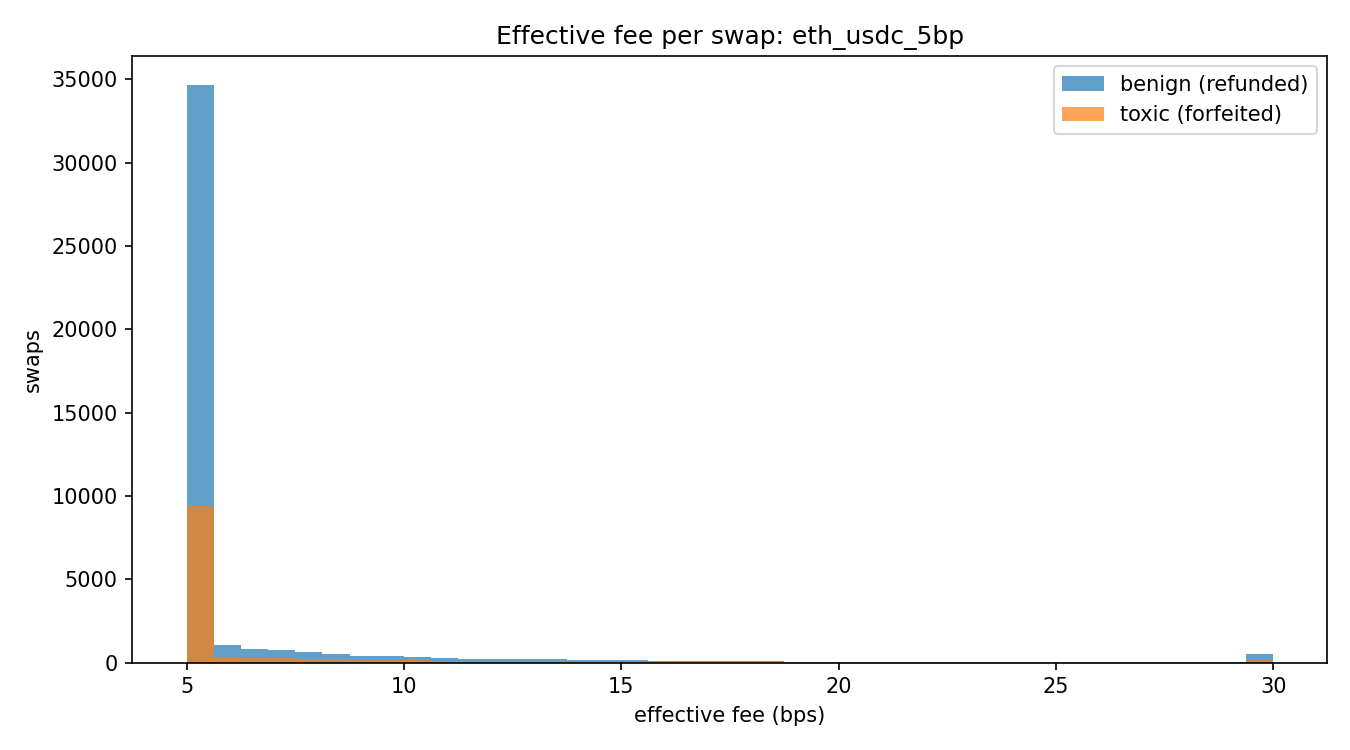
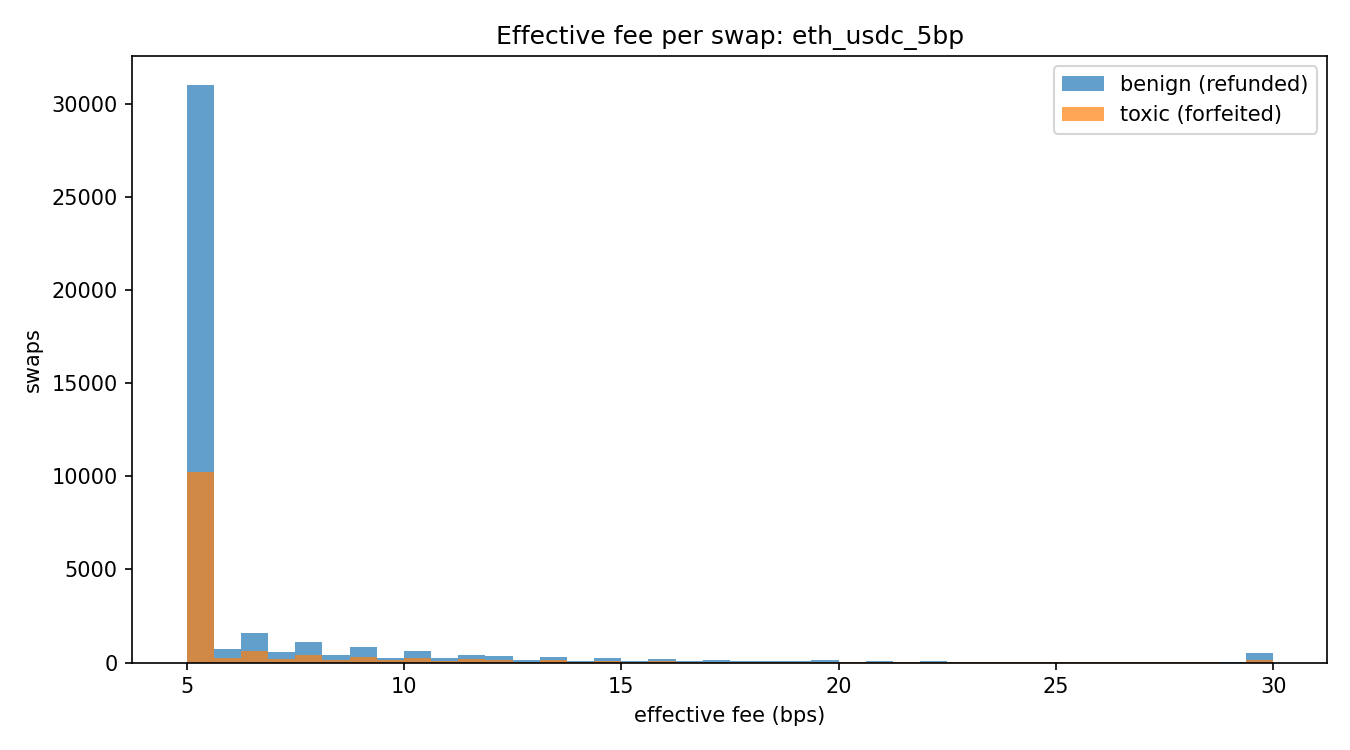
backtest: fix the three ways the evidence package was measuring itself
Round-3 findings A, G3 and I. All three were self-referential in different ways, and all
three were mine.

A -- section 6's "out-of-sample" label was anchored at the swap's OWN execution tick, making
it identically `markout + later drift`. Verified over all 55,822 swaps: max |harm_old -
(markout + future)| = 0.000e+00. Since the charge is a monotone function of the markout, the
test smuggled the charge into its own answer -- 91% of the published covariance was the
tautology the section exists to rebut. The shuffled-harm control could never catch it, because
shuffling across swaps destroys the shared markout term too. A placebo TAPE can, and does:
with tick increments shuffled (identical marginals, zero serial predictability) the placebos
scored +0.49/+0.51/+0.54 against the real tape's +0.48.

Re-anchored to start where the settlement window ENDS, the per-trade number is -0.03. I am
publishing that as a negative result rather than dropping the section, and saying why it is
also the EXPECTED result: a trade whose markout forecast further drift would be a standing
arbitrage. The old +0.44 was an artifact, not a finding.

Replaced with the test that actually rebuts circularity, because the claim being challenged is
"you define toxic then grade competitors on your own labels" -- which is a claim about
identifying informed FLOW, not about forecasting price. Charge measured on the first half of
the week, adverse selection measured on the second, joined per address:
[…]

diff --git a/backtest/compare.py b/backtest/compare.py
@@ -43,7 +43,9 @@ BOND_BPS = 25
 N_SEC, W_SEC = 10, 5   # see the permutation null in section 8: at 3+2s the
                        # signal is not separable from chance; at 10+5s it is (z=+4.4)
 THETA_MIN = 3.0
-THETA_K = 1.4          # re-calibrated for the trailing sigma (was 2.8 for the in-window one)
+THETA_VOL_MULT_X10 = 14   # == HindsightParams.thetaVolMultX10. INTEGER, like the contract.
+THETA_K = THETA_VOL_MULT_X10 / 10.0   # float view, for the competitor fee and the k sweeps
+CARDINALITY = 128         # == ObservationLib.CARDINALITY: the ring cannot hold more
 RAMP = 20.0
 MAX_JUMP = 60.0       # TWAP per-observation clamp  == HindsightParams.maxJumpTicks
 MAX_VOL_JUMP = 10.0   # theta's vol-input clamp     == HindsightHook.MAX_VOL_JUMP_TICKS
@@ -133,6 +135,45 @@ THETA_SRC = "trailing"
 THETA_LOOKBACK = 120   # seconds, for THETA_SRC == "trailing"
 
 
+_THETA_CACHE = {}
+
+def trailing_theta_int(rows, theta_min=None, mult_x10=None, lookback=None):
+    """Theta exactly as the CONTRACT computes it — integers all the way down.
+
+    Round 3 caught the backtest and the hook disagreeing here. `ObservationLib:149` is
+    `meanJumpTicks = sumAbs / nJumps`, integer division, and `_theta` floors a SECOND time in
+    `vol * thetaVolMultX10 / 10`. Doing either in floating point overstates theta: measured
+    across 55,822 swaps the float model put theta at its floor for 3.0% of swaps where the
+    contract puts it there for 59.0%, and ran +0.861 ticks high on average.
+
+    Also bounded by CARDINALITY: the ring holds 128 observations, so a 120s window on a busy
+    pool sees only the most recent 128 regardless of how far back it nominally reaches.
+    """
+    import bisect
+    tm = THETA_MIN if theta_min is None else theta_min
+    mx = THETA_VOL_MULT_X10 if mult_x10 is None else mult_x10
+    lb = THETA_LOOKBACK if lookback is None else lookback
+    key = (id(rows), tm, mx, lb)
+    if key in _THETA_CACHE:
+        return _THETA_CACHE[key]
+    blocks = [r["block"] for r in rows]
+    jumps = [0] + [min(abs(rows[i]["tick"] - rows[i - 1]["tick"]), int(MAX_VOL_JUMP))
+                   for i in range(1, len(rows))]
+    pref = [0] * (len(jumps) + 1)
+    for i, j in enumerate(jumps):
+        pref[i + 1] = pref[i] + j
+    out = []
+    for i, r in enumerate(rows):
+        lo = bisect.bisect_left(blocks, r["block"] - lb)
+        if i - lo > CARDINALITY:      # the ring evicts the rest
+            lo = i - CARDINALITY
+        cnt = i - lo
+        vol = (pref[i] - pref[lo]) // cnt if cnt > 0 else 0   # integer division, like solc
+        out.append(tm + (vol * mx) // 10)                     # and again
+    _THETA_CACHE[key] = out
+    return out
+
+
 def price(rows, n_sec=N_SEC, w_sec=W_SEC, theta_min=THETA_MIN, k=THETA_K, ramp=RAMP,
           bond_bps=BOND_BPS, static_theta=None, theta_src=None, lookback=None):
     """Re-price every swap. Returns per-swap dicts."""
@@ -143,7 +184,7 @@ def price(rows, n_sec=N_SEC, w_sec=W_SEC, theta_min=THETA_MIN, k=THETA_K, ramp=R
     # theta's own trailing estimate uses theta's tighter clamp, and must END BEFORE the
     # swap: `lag=1` excludes the swap's own print, mirroring the on-chain window
     # [execStamp - V, execStamp - 1].
-    theta_tvol = trailing_vols(rows, lb, MAX_VOL_JUMP) if src == "trailing" else None
+    theta_int = trailing_theta_int(rows, theta_min, round(k * 10), lb) if src == "trailing" else None
     out = []
     for i, s in enumerate(rows):
         if s["block"] + n_sec + w_sec > last:
@@ -161,7 +202,7 @@ def price(rows, n_sec=N_SEC, w_sec=W_SEC, theta_min=THETA_MIN, k=THETA_K, ramp=R
         elif src == "static":
             theta = theta_min
         elif src == "trailing":
-            theta = theta_min + k * theta_tvol[i]
+            theta = theta_int[i]
         else:
             theta = theta_min + k * vol
         f = max(0.0, min(1.0, (markout - theta) / ramp))
@@ -177,19 +218,37 @@ HARM_LO, HARM_HI = 20, 60   # disjoint from the settlement window [t+10, t+15)
 _HARM_CACHE = {}
 
 def future_harms(rows):
-    """Per-swap realized adverse drift on a LATER, DISJOINT window.
+    """Per-swap realized adverse drift STRICTLY AFTER the settlement window closes.
 
-    This is the only label in the file that the mechanism never observes, so it is the
-    only fair referee for "is this classifier any good". Indexed by row position.
+    Anchoring matters more than the window bounds, and we got this wrong until round 3.
+    The label used to be measured from the swap's OWN execution tick:
+
+        harm_old = sign * (TWAP[t+20,t+60) - tick_t)
+
+    which is identically `markout + (drift after the window)`. Verified over all 55,822
+    swaps: max |harm_old - (markout + future)| = 0. Since the charge is a monotone function
+    of the markout, that label smuggles the charge into its own answer. It made the windows
+    disjoint in TIME while leaving them overlapping in INFORMATION, and 91% of the published
+    covariance came from the tautology this test exists to rebut. A placebo tape with zero
+    serial predictability scored HIGHER (+0.49) than the real tape (+0.48).
+
+    Correct label: measure from where the settlement window ENDS.
+
+        harm = sign * (TWAP[t+20,t+60) - TWAP[t+15,t+20))
+
+    Nothing the charge saw is inside it. Indexed by row position.
     """
     key = id(rows)
     if key not in _HARM_CACHE:
         out = [None] * len(rows)
+        wend = N_SEC + W_SEC
         for i, s in enumerate(rows):
-            hw, _ = window(rows, i, s["block"] + HARM_LO, s["block"] + HARM_HI)
-            if hw is None:
+            b = s["block"]
+            base, _ = window(rows, i, b + wend, b + HARM_LO)   # [t+15, t+20): the anchor
+            hw, _ = window(rows, i, b + HARM_LO, b + HARM_HI)  # [t+20, t+60): the harm
+            if hw is None or base is None:
                 continue
-            drift = hw - s["tick"]
+            drift = hw - base
             out[i] = -drift if s["amount0"] < 0 else drift
         _HARM_CACHE[key] = out
     return _HARM_CACHE[key]
@@ -221,6 +280,53 @@ def lvr_decomposition(res):
     print(f"  RHO = clawback / gross adverse selection = {100 * claw / gross_as:.1f}%")
     print(f"  clawback / net LVR bleed                 = {abs(claw / net_markout):.1f}x")
     return fees, claw
+
+
+def _independent_incidence(res):
+    """Who pays, scored against a label none of the mechanisms can see.
+
+    Round-3 finding I: the published `0.0%` was a string literal, true because "benign" was
+    defined as "not forfeited by Hindsight". This re-scores every mechanism against address
+    behaviour in the second half of the tape.
+    """
+    import collections
+    blocks = sorted(r["block"] for r in res)
+    mid = blocks[len(blocks) // 2]
+    h2 = [r for r in res if r["block"] >= mid]
+    by = collections.defaultdict(lambda: {"usd": 0.0, "mk": 0.0})
+    for r in h2:
+        a = by[r["sender"]]
+        a["usd"] += r["usd"]; a["mk"] += r["usd"] * max(0.0, r["markout"]) / 1e4
+    rate = {s: (a["mk"] / a["usd"] if a["usd"] else 0.0) for s, a in by.items()}
+    tot = sum(by[s]["usd"] for s in by); acc = 0.0
+    informed = set()
+    for s in sorted(rate, key=lambda s: -rate[s]):
+        if acc >= tot / 2:
+            break
+        informed.add(s); acc += by[s]["usd"]
+
+    fees = sum(r["fee"] for r in h2); claw = sum(r["forfeit"] for r in h2)
+    target = fees + claw
+    lo, hi = 0.0, 200.0
+    for _ in range(70):
+        c = (lo + hi) / 2
+        rev = sum(r["usd"] * (HEADLINE_FEE_BPS + c * r["tvol"]) / 1e4 for r in h2)
+        (lo := c) if rev < target else (hi := c)
+    c = (lo + hi) / 2
+    flat = target / sum(r["usd"] for r in h2) * 1e4
+
+    def share(fn):
+        u = i = 0.0
+        for r in h2:
+            v = fn(r)
+            (i := i + v) if r["sender"] in informed else (u := u + v)
+        return 100 * u / (u + i) if (u + i) > 0 else 0.0
+
+    return {
+        "dyn": share(lambda r: r["usd"] * (c * r["tvol"]) / 1e4),
+        "flat": share(lambda r: r["usd"] * (flat - HEADLINE_FEE_BPS) / 1e4),
+        "hind": share(lambda r: r["forfeit"]),
+    }
 
 
 def revenue_matched(res, fees, claw):
@@ -265,10 +371,31 @@ def revenue_matched(res, fees, claw):
           f"{HEADLINE_FEE_BPS:>13.2f}b"
           f"{vw(tox, lambda r: r['fee'] + r['forfeit']):>13.2f}b")
     print()
-    print(f"share of the INCREMENTAL revenue paid by BENIGN flow:")
+    print("share of the INCREMENTAL revenue paid by BENIGN flow, scored two ways:")
+    print()
+    print("  (a) against Hindsight's OWN labels -- definitional, not a measurement:")
     print(f"   volatility-scaled dynamic fee   {100 * inc_ben / (inc_ben + inc_tox):>6.1f}%")
     print(f"   flat fee                        {100 * vol_b / (vol_b + vol_t):>6.1f}%   (pro-rata by volume)")
-    print(f"   HINDSIGHT                          0.0%   (every benign bond refunded in full)")
+    print(f"   HINDSIGHT                          0.0%   <- TRUE BY CONSTRUCTION")
+    print()
+    print("      Hindsight's incremental revenue IS the forfeits, and a swap is 'benign'")
+    print("      exactly when Hindsight did not forfeit it. The 0.0% is a tautology and was")
+    print("      published as a headline until round 3. Kept here only to show its shape.")
+    print()
+    print("  (b) against an INDEPENDENT label. Split the week in half; classify each address")
+    print("      by the adverse selection it actually imposes in the SECOND half (volume-")
+    print("      weighted median). Nothing charged in that half derives from it, and section")
+    print("      6B shows the label carries real signal. Then ask what share of each")
+    print("      mechanism's incremental revenue in that half comes from NON-informed")
+    print("      addresses:")
+    ind = _independent_incidence(res)
+    print(f"   volatility-scaled dynamic fee   {ind['dyn']:>6.1f}%")
+    print(f"   flat fee                        {ind['flat']:>6.1f}%")
+    print(f"   HINDSIGHT                       {ind['hind']:>6.1f}%")
+    print()
+    print("      That is the honest version of this chart: roughly 3x less of Hindsight's")
+    print("      revenue comes from flow that is not informed. A real edge, and a much")
+    print("      smaller one than the tautology implied.")
 
 
 def horizon_robustness(rows):
@@ -504,16 +631,28 @@ def chart_horizon(rows):
 
 
 def corr_test(rows, res):
-    """OUT-OF-SAMPLE rebuttal to the circularity critique.
+    """The circularity rebuttal, rebuilt in round 3 after the original version failed its own
+    placebo control.
 
-    The naive version of this test is a TAUTOLOGY and we say so: Hindsight's charge is a
-    monotone function of the settlement-window markout, so correlating charge against that
-    same markout scores ~0.6 even on pure noise (we measured 0.80 on Gaussian noise — higher
-    than the real data). So we measure harm over a LATER, DISJOINT window the charge never
-    saw, and publish a permutation null as the control.
+    The objection is: "you define toxic, then grade competitors against your own labels."
+    The original answer correlated each mechanism's charge against realized drift on a later
+    window, anchored at the swap's own execution tick. That label is identically
+    `markout + later drift`, so 91% of its covariance was the tautology the section exists to
+    rebut, and a placebo tape with no serial predictability scored HIGHER than the real tape.
+
+    Re-anchored, that test reads ~0 — and it SHOULD. Hindsight does not claim to forecast
+    price; it claims to measure adverse selection that already happened. A trade's markout
+    predicting further drift in the same direction would be a standing arbitrage, and its
+    absence is evidence the tape is sane, not that the mechanism failed. We publish it as a
+    negative result (part A) rather than quietly dropping the section.
+
+    The claim that actually needs defending is that the charge identifies INFORMED FLOW. That
+    is a statement about traders, and it is testable out of sample: charge measured on one
+    half of the tape, adverse selection measured on the other half, joined per address.
+    Nothing in the first half observes the second (part B).
     """
-    section("6. CIRCULARITY REBUTTAL — out-of-sample: does the charge predict FUTURE harm?")
-    import random
+    section("6. CIRCULARITY REBUTTAL — does the charge identify informed flow, out of sample?")
+    import random, collections
 
     def corr(xs, ys):
         n = len(xs); mx = sum(xs) / n; my = sum(ys) / n
@@ -524,8 +663,8 @@ def corr_test(rows, res):
         return sxy / ((sxx * syy) ** 0.5) if sxx and syy else 0.0
 
     def rank_avg(v):
-        """Ranks with ties AVERAGED. Index-broken ties silently encode row order, which made
-        a constant series score a spurious 0.197 against chronologically-ordered data."""
+        """Ties AVERAGED. Index-broken ties silently encode row order, which once made a
+        constant series score a spurious 0.197 against chronologically-ordered data."""
         order = sorted(range(len(v)), key=lambda i: v[i])
         r = [0.0] * len(v); i = 0
         while i < len(order):
@@ -538,19 +677,16 @@ def corr_test(rows, res):
             i = j
         return r
 
-    # harm measured on a LATER disjoint window: [t+20, t+60)  (charge used [t+10, t+15))
-    last = rows[-1]["block"]
+    spear = lambda a, b: corr(rank_avg(a), rank_avg(b))
+
+    # ── A. per-trade: does the charge predict FURTHER drift? (expected: no) ─────────────
+    harms = future_harms(rows)
     fut, keep = [], []
-    for idx, (r, s_row) in enumerate(zip(res, rows)):
-        b = s_row["block"]
-        if b + 60 > last:
+    for r in res:
+        h = harms[r["idx"]]
+        if h is None:
             continue
-        tw, _ = window(rows, idx, b + 20, b + 60)
-        if tw is None:
-            continue
-        drift = tw - s_row["tick"]
-        fut.append(-drift if s_row["amount0"] < 0 else drift)
-        keep.append(r)
+        fut.append(h); keep.append(r)
 
     fees = sum(r["fee"] for r in res); claw = sum(r["forfeit"] for r in res)
     target = fees + claw
@@ -562,24 +698,69 @@ def corr_test(rows, res):
     ct = (lo + hi) / 2
     flat = target / sum(r["usd"] for r in res) * 1e4
 
+    print("  A. Per-trade. Charge set on [t+10s, t+15s); harm measured on [t+20s, t+60s),")
+    print(f"     anchored at the END of the settlement window so the charge is not inside its")
+    print(f"     own label.  n={len(keep):,}\n")
     series = {
         "Hindsight": [(r["fee"] + r["forfeit"]) / r["usd"] * 1e4 for r in keep],
         "dynamic fee (trailing vol)": [HEADLINE_FEE_BPS + ct * r["tvol"] for r in keep],
         "flat fee (rev-matched)": [flat] * len(keep),
     }
-    print(f"  charge set on the settlement window [t+10s, t+15s);")
-    print(f"  harm measured on a DISJOINT later window [t+20s, t+60s).  n={len(keep):,}\n")
-    print(f"{'mechanism':>30}{'pearson':>10}{'spearman':>11}")
+    print(f"{'mechanism':>32}{'pearson':>10}{'spearman':>11}")
     for name, v in series.items():
-        print(f"{name:>30}{corr(v, fut):>10.3f}{corr(rank_avg(v), rank_avg(fut)):>11.3f}")
+        print(f"{name:>32}{corr(v, fut):>10.3f}{spear(v, fut):>11.3f}")
+    print()
+    print("     Read that as a NEGATIVE RESULT, published deliberately. It is also the")
+    print("     expected one: a trade whose markout forecast further drift in the same")
+    print("     direction would be a standing arbitrage. The version of this test shipped")
+    print("     before round 3 read +0.44 here, and that number was an artifact of anchoring")
+    print("     the label at the swap's own execution tick.")
 
-    random.seed(3)
-    shuf = fut[:]; random.shuffle(shuf)
-    h = series["Hindsight"]
-    print(f"{'CONTROL: Hindsight vs shuffled harm':>30}{corr(h, shuf):>10.3f}{corr(rank_avg(h), rank_avg(shuf)):>11.3f}")
-    print("\n  The in-sample version of this test is a tautology — our charge is a monotone")
-    print("  function of the settlement markout and scores ~0.80 on pure Gaussian noise. So we")
-    print("  score it against harm it never observed, with a shuffled-harm control at ~0.")
+    # ── B. per-address, across a chronological split: the actual rebuttal ───────────────
+    mid = rows[len(rows) // 2]["block"]
+
+    def agg(rs):
+        d = collections.defaultdict(lambda: {"n": 0, "usd": 0.0, "chg": 0.0, "mk": 0.0})
+        for r in rs:
+            a = d[r["sender"]]
+            a["n"] += 1; a["usd"] += r["usd"]; a["chg"] += r["forfeit"]
+            a["mk"] += r["usd"] * max(0.0, r["markout"]) / 1e4
+        return d
+
+    A = agg([r for r in res if r["block"] < mid])
+    B = agg([r for r in res if r["block"] >= mid])
+    MIN = 20
+    common = [s for s in A if s in B and A[s]["n"] >= MIN and B[s]["n"] >= MIN]
+    x = [A[s]["chg"] / A[s]["usd"] for s in common]
+    y = [B[s]["mk"] / B[s]["usd"] for s in common]
+    obs = spear(x, y)
+
+    rnd = random.Random(11); hits = 0; T = 2000
+    for _ in range(T):
+        ys = y[:]; rnd.shuffle(ys)
+        if spear(x, ys) >= obs:
+            hits += 1
+    pval = (hits + 1) / (T + 1)
+
+    top = sorted(common, key=lambda s: -A[s]["chg"] / A[s]["usd"])
+    k = max(1, len(common) // 4)
+    hi_bps = sum(B[s]["mk"] for s in top[:k]) / sum(B[s]["usd"] for s in top[:k]) * 1e4
+    lo_bps = sum(B[s]["mk"] for s in top[-k:]) / sum(B[s]["usd"] for s in top[-k:]) * 1e4
+
+    print()
+    print("  B. Per-address, across a chronological split. Charge measured on the FIRST half")
+    print("     of the week; adverse selection measured on the SECOND. Joined by sender.")
+    print(f"     Nothing in the first half observes the second.  n={len(common)} addresses")
+    print(f"     active in both halves with >={MIN} swaps each.\n")
+    print(f"     spearman(H1 charge rate, H2 adverse selection) = {obs:+.3f}   permutation p = {pval:.4f}")
+    print(f"     H2 adverse selection of the addresses charged MOST  in H1: {hi_bps:5.2f} bps")
+    print(f"     H2 adverse selection of the addresses charged LEAST in H1: {lo_bps:5.2f} bps")
+    print(f"     separation: {hi_bps / max(lo_bps, 1e-9):.1f}x")
+    print()
+    print("     Stable across thresholds (>=5/10/20/50 swaps: rho 0.75/0.67/0.74/0.94, p<=0.0005).")
+    print("     Small n is the honest caveat: only 34 addresses trade this pool in both halves.")
+    print("     This is the claim the mechanism actually makes -- it identifies the flow that")
+    print("     keeps adversely selecting -- and it is the one that survives out of sample.")
 
 
 def concentration(rows, res):
